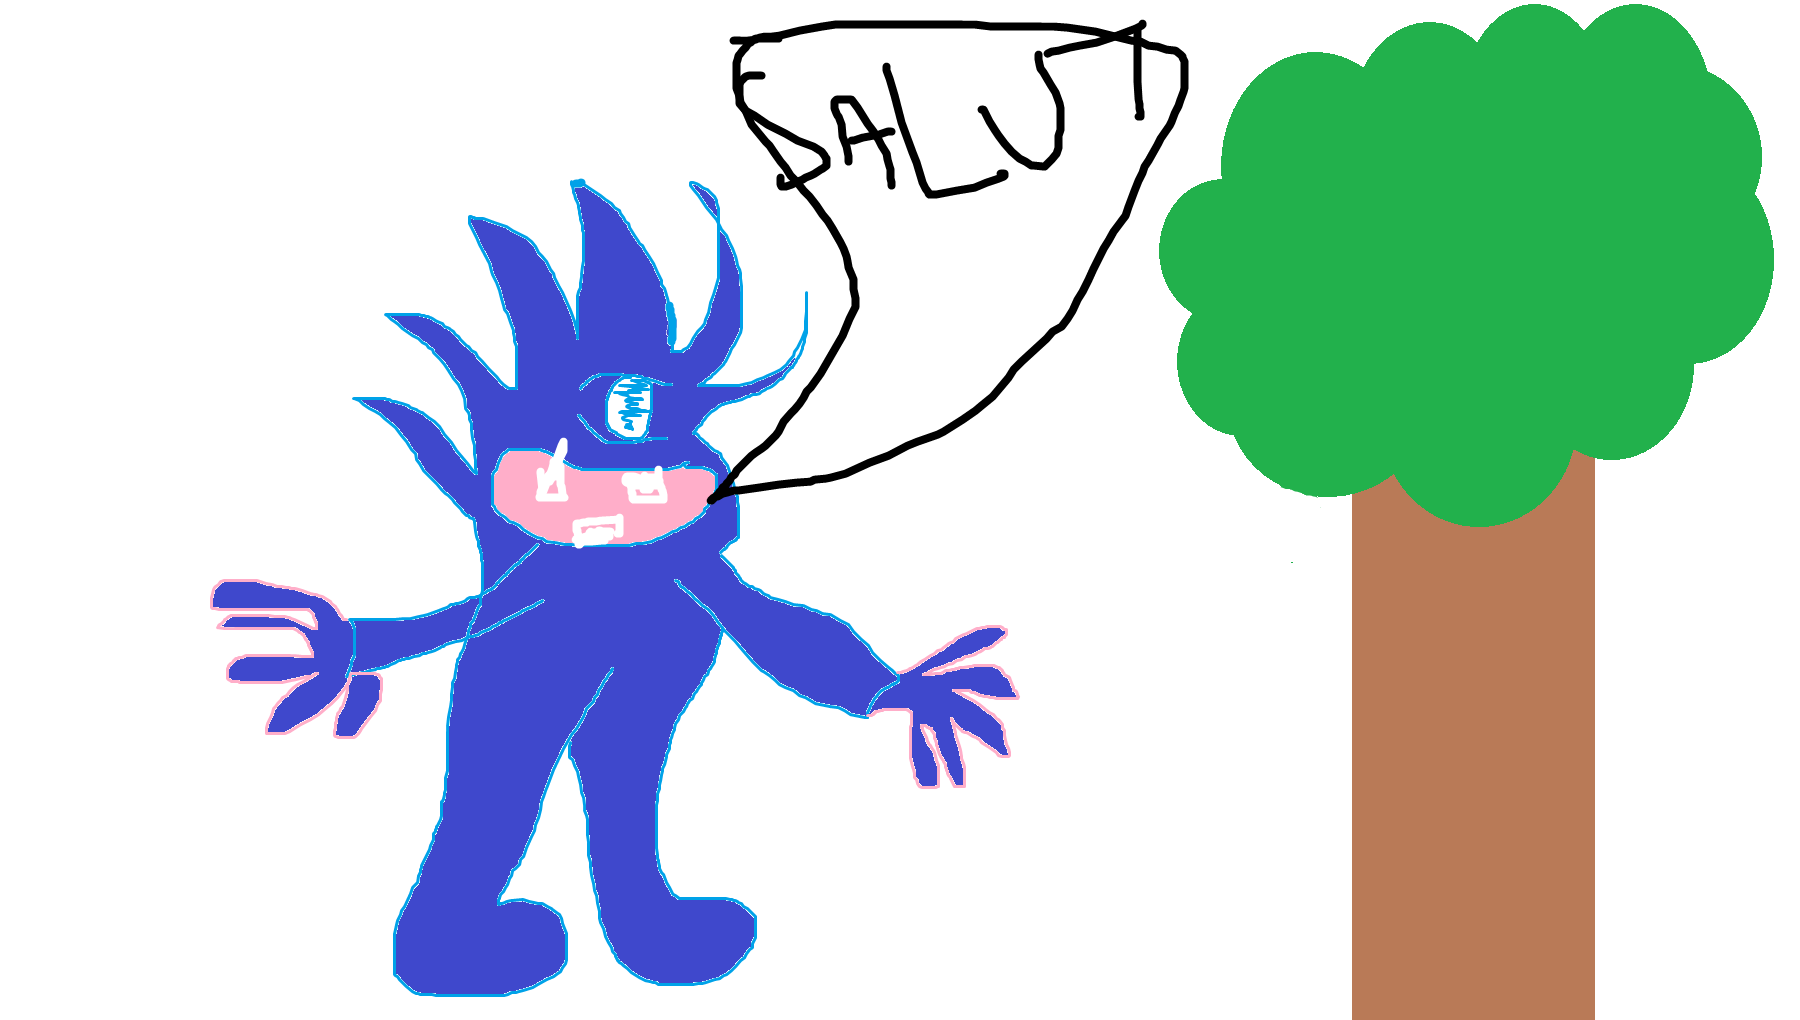
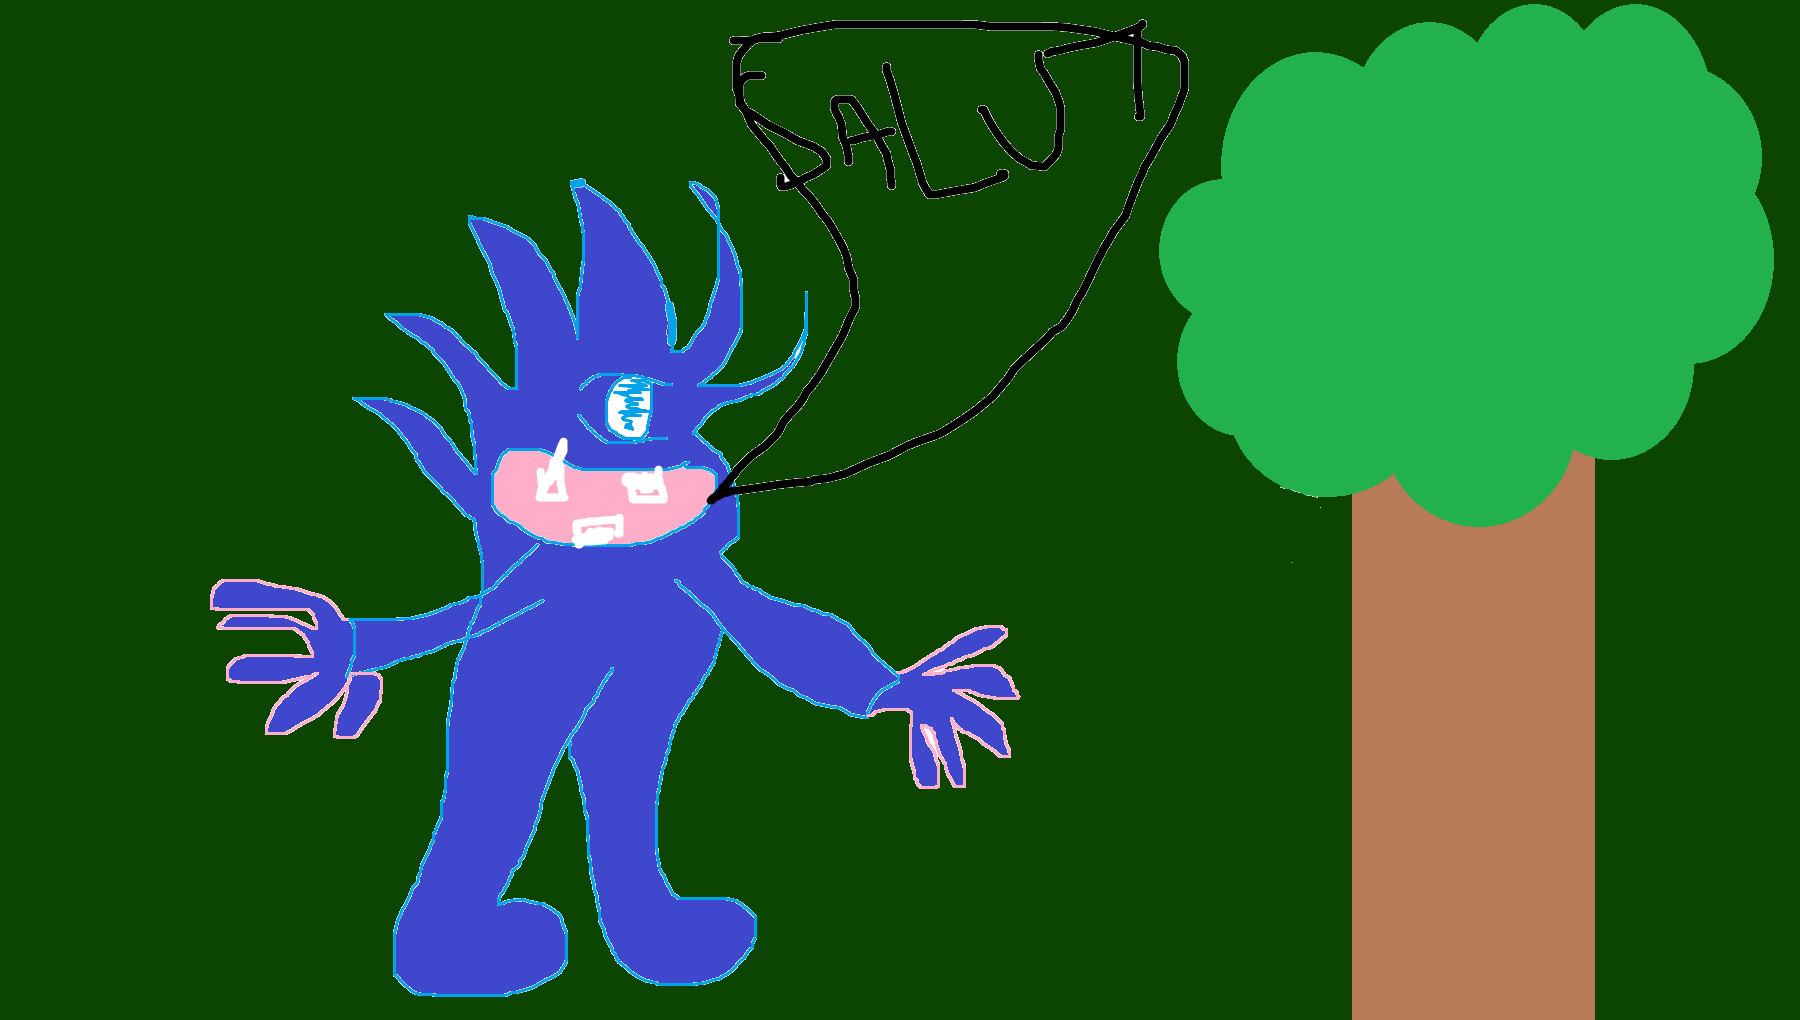
last version avec beau fond into nbientot les dos de carte

diff --git a/BlackJackLeJeuHD/src/BlackJackLeJeuHD.java b/BlackJackLeJeuHD/src/BlackJackLeJeuHD.java
@@ -8,14 +8,21 @@ import javax.swing.border.Border;
 
 import netscape.javascript.JSException;
 
-public class BlackJackLeJeuHD {        
+public class BlackJackLeJeuHD {  
 
     ArrayList<Carte> deck;
     Random random = new Random(); // mélanger le deck
     
+    
+    public int numero_dos_carte = 0;
+    public int largCarte = 210;
+    public int hautCarte = 300;
+    public int fenlarg = 1800;
+    public int fenHaut = 1020;
+
+
     //dealer
     Carte hiddenCarte;
-    Doscartes doscartes;
     ArrayList<Carte> dealerhand;
     int dealersomme;
     int dealerNbAs;
@@ -27,11 +34,9 @@ public class BlackJackLeJeuHD {
 
 
         public void gamewindow(){
-            int fenlarg = 1800;
-            int fenHaut = 1020;
             
             //fenêtre
-            JFrame fene = new JFrame("BlackJack Le Jeu HD");
+            JFrame fene = new JFrame("BlackJack Le Jeu HD Casino éditon ");
             fene.setVisible(true);
             fene.setSize(fenlarg, fenHaut);
             fene.setLocationRelativeTo(null);
@@ -60,9 +65,11 @@ public class BlackJackLeJeuHD {
 
             JPanel panelgauche1 = new JPanel();
             BoxLayout box = new BoxLayout(panelgauche1, 1);
-            
+                      
+
+
             JButton deco1Button = new JButton(deco1);
-            JButton miser = new JButton("Miser");
+            JButton miser = new JButton("Miser 10 écus");
             JButton retourmenu = new JButton(menuIcon);
             JButton optioButton = new JButton(optIcon);
             
@@ -70,8 +77,6 @@ public class BlackJackLeJeuHD {
             //Jlabel
             JLabel miseJoueur = new JLabel("" + valeurMise, jetonIcon, 0);
             JLabel ArgentJoueur = new JLabel("" + argentJoueur, argentIcon, 0);
-
-
 
             deco1Button.setEnabled(false);
             miser.setFocusable(false);
@@ -87,8 +92,7 @@ public class BlackJackLeJeuHD {
     
     
             //gamepanel
-            int largCarte = 210;
-            int hautCarte = 300;
+            
 
 
     
@@ -107,7 +111,7 @@ public class BlackJackLeJeuHD {
                         
     
                         //carte face cachée
-                        Image carteFaceCacheImg = new ImageIcon(getClass().getResource("/asset/doscartes/base-0.png")).getImage();
+                        Image carteFaceCacheImg = new ImageIcon(getClass().getResource("/asset/doscartes/base.png")).getImage();
                         if (!stayboutton.isEnabled()){
                             carteFaceCacheImg = new ImageIcon(getClass().getResource(hiddenCarte.getImageChem())).getImage();
                         }
@@ -197,7 +201,6 @@ public class BlackJackLeJeuHD {
     
     
     
-    
             //affichage
             
             panelgauche1.setLayout(box);
@@ -240,8 +243,6 @@ public class BlackJackLeJeuHD {
                 
             });
             
-            
-                
             
 
             replayboutton.addActionListener(new ActionListener() {
@@ -311,6 +312,7 @@ public class BlackJackLeJeuHD {
         
         
         
+        
     System.out.println("execution...");
     }
 
@@ -354,8 +356,6 @@ public class BlackJackLeJeuHD {
 //_________________________________________________MenuPrincipale____________________________________________
     public void MenuValid(){
         JFrame fene = new JFrame("BlackJackLeJeuHD");
-        int fenlarg = 1800;
-        int fenHaut = 1020;
             
         //fenêtre
         fene.setVisible(true);
@@ -376,8 +376,7 @@ public class BlackJackLeJeuHD {
         Icon LogoIcon = new ImageIcon(getClass().getResource("./asset/logo.png"));
         
 
-        //titre
-        JLabel titre = new JLabel("BlackJackLeJeuHD");  
+        //titr
         JLabel logo = new JLabel(LogoIcon);
 
         logo.setBounds(0,   0,  1800, 1020);
@@ -450,6 +449,7 @@ public class BlackJackLeJeuHD {
         OptionBoutton.addActionListener(new ActionListener() {
             public void actionPerformed (ActionEvent e){
                 MenuOption();
+                
             }
         });
 
@@ -470,25 +470,25 @@ public class BlackJackLeJeuHD {
 
     //_____________________________________________________Option_______________________________________________________
     public void MenuOption() {
+        String[] listedoscarte = {"base","style","foret","turbulax","furaxxx",
+        "grignotage","rouleboule","trifouille","gribouille","gerbotron",
+        "optimus_dos_de_carte","watermark","blitzkrieg","doucement_sur_la_zaza",
+        "le_mousseux_de_guise","jojo","snk","loli","malifood","la_jar_de_kader"};
+
+        
+        
+
         JFrame frame = new JFrame("Menu d'options");
         frame.setSize(800, 800);
         frame.setResizable(false);
         frame.setLocationRelativeTo(null);
         frame.setDefaultCloseOperation(JFrame.EXIT_ON_CLOSE);
 
-        
-
         //icon
         Icon suivanIcon = new ImageIcon(getClass().getResource("./asset/suivant.png"));
         Icon retourIcon = new ImageIcon(getClass().getResource("./asset/retour.png"));
         Icon quitterIcon = new ImageIcon(getClass().getResource("/asset/quitter_petit.png"));
-        Icon dos_petitIcon = new ImageIcon(getClass().getResource("./asset/dos_petit.png"));
-        Icon doscartesImage = new ImageIcon(getClass().getResource(""));
-
-        //dos de cartes
-        JButton doscartesImageJButton = new JButton(doscartesImage);
-        doscartesImageJButton.setBounds(300, 250, 210, 300 );
-        frame.add(doscartesImageJButton);
+        Icon doscartesImage = new ImageIcon(getClass().getResource("./asset/doscartes/base.png"));
 
         //bouton
         JButton suivantJButton = new JButton(retourIcon);
@@ -506,11 +506,65 @@ public class BlackJackLeJeuHD {
         quitterJButton.setBounds(5, 5, 50, 50);
         quitterJButton.setFocusable(false);
         frame.add(quitterJButton);
-    
 
+
+        JPanel optionPanel = new JPanel(){
+            @Override
+                
+                public void paintComponent(Graphics dos) {
+                    super.paintComponent(dos);
+
+                    try {
+                        Image dosImage = new ImageIcon(getClass().getResource("./asset/doscartes/"+ listedoscarte[numero_dos_carte]+ ".png")).getImage();
+                        dos.drawImage(dosImage, 400, 400, largCarte, hautCarte, null);
+                    
+                } catch (Exception e) {
+                        e.printStackTrace();
+                    }       
+
+        quitterJButton.addActionListener(new ActionListener() {
+            public void actionPerformed (ActionEvent e){
+                frame.dispose();
+            }
+        });
+
+        
+        suivantJButton.addActionListener(new ActionListener() {
+            public void actionPerformed (ActionEvent e){
+                if(numero_dos_carte == 0){
+                    numero_dos_carte = 13;
+                }
+                numero_dos_carte -= 1;
+                System.out.println(listedoscarte[numero_dos_carte]);
+                
+
+
+            }
+        });
+
+        retourJButton.addActionListener(new ActionListener() {
+            public void actionPerformed (ActionEvent e){
+                if(numero_dos_carte == 13){
+                    numero_dos_carte = 0;
+                }
+                numero_dos_carte += 1;
+                System.out.println(listedoscarte[numero_dos_carte]);
+                
+
+            }
+            
+        });
+        
+
+
+    }
+    };
+    
         //fenêtre
+        frame.add(optionPanel);
         frame.setLayout(null);
         frame.setVisible(true);
+    
     }
         
     
@@ -518,7 +572,7 @@ public class BlackJackLeJeuHD {
 
     public void startGame(){
         //deck
-       // Deck.buildDeck();
+        // Deck.buildDeck();
         deck = melangedeck(Deck.buildDeck());
 
         //dealer

diff --git a/BlackJackLeJeuHD/src/Deck.java b/BlackJackLeJeuHD/src/Deck.java
@@ -8,13 +8,16 @@ public class Deck {
         deck = new ArrayList<Carte>();
         
         String[] valeurs = { "A", "2", "3","4","5","6","7","8","9","10","J","Q","K"};
-        String[] types = {"T","CA","CO","P","T","CA","CO","P","T","CA","CO","P","T","CA","CO","P" };
-
-        for (int i = 0; i < types.length; i++) {
-            for(int j = 0; j< valeurs.length; j++) {
-                Carte carte = new Carte(valeurs[j], types[i]);
-                deck.add(carte);
+        String[] types = {"T","CA","CO","P"};
+        int k = 0;
+        while(k < 6 ){
+            for (int i = 0; i < types.length; i++) {
+                for(int j = 0; j< valeurs.length; j++) {
+                    Carte carte = new Carte(valeurs[j], types[i]);
+                    deck.add(carte);
+                }
             }
+            k +=1;
         }
 
         System.out.println("Préparation du deck :");
